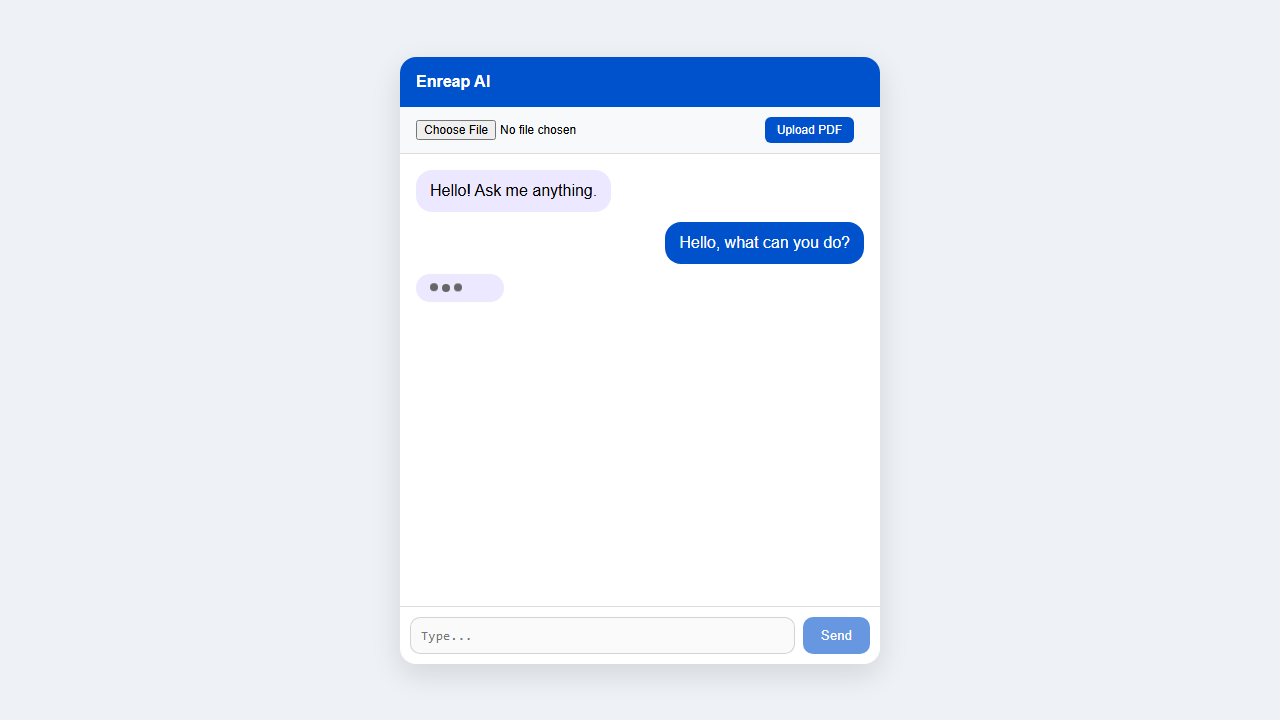
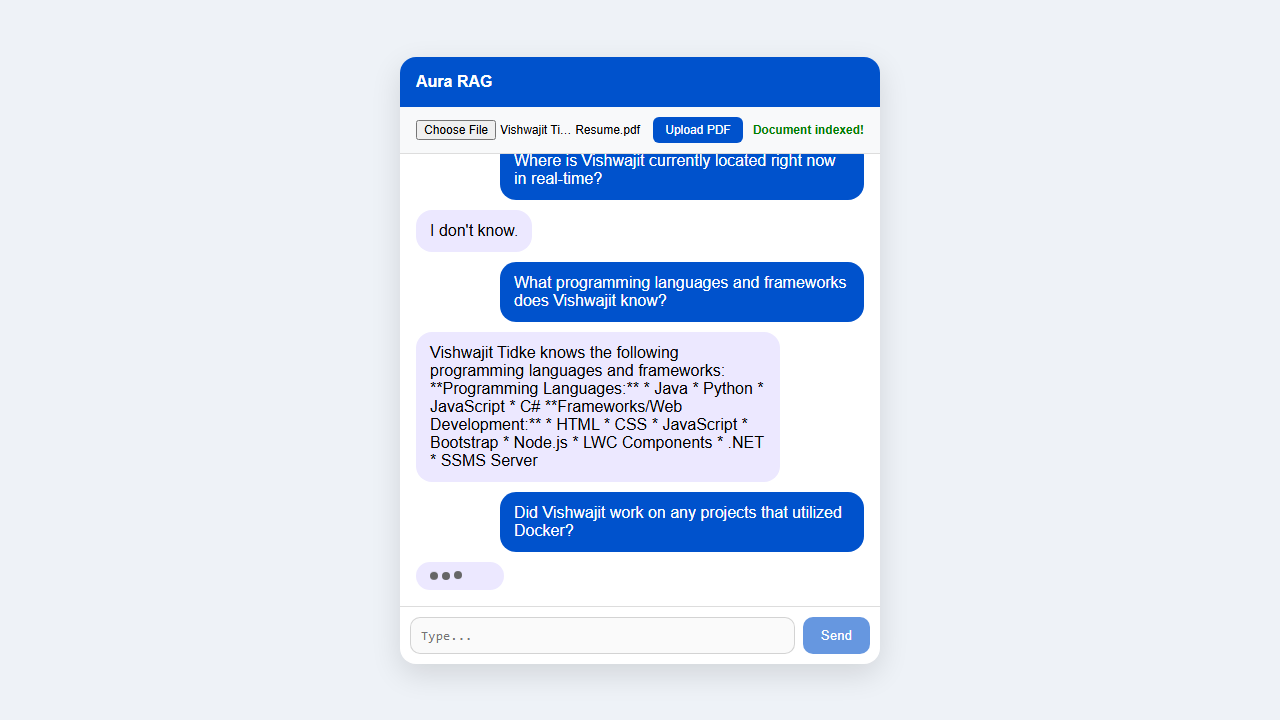
Rebrand to Aura RAG and add resume-context screenshots

diff --git a/templates/index.html b/templates/index.html
@@ -1,10 +1,10 @@
 <!DOCTYPE html>
-<html><head><meta charset="UTF-8"><title>Enreap AI</title>
+<html><head><meta charset="UTF-8"><title>Aura RAG</title>
 <link rel="stylesheet" href="/static/styles.css">
 </head>
 <body><div class="card">
 <div class="header">
-    <span>Enreap AI</span>
+    <span>Aura RAG</span>
 </div>
 <div class="upload-section">
     <input type="file" id="fileInput" accept=".pdf">

diff --git a/take_screenshot.py b/take_screenshot.py
@@ -7,12 +7,33 @@ async def main():
         page = await browser.new_page()
         await page.goto("http://127.0.0.1:8000")
         await page.wait_for_timeout(2000)
+        
+        # Take initial UI screenshot
         await page.screenshot(path="screenshot_ui.png")
         
-        # Take screenshot of typing
-        await page.fill("#q", "Hello, what can you do?")
-        await page.click("#send")
-        await page.wait_for_timeout(1000)
+        # Upload the PDF
+        pdf_path = r"C:\Users\Vishwajit\OneDrive\Documents\Vishwajit Tidke Resume.pdf"
+        await page.set_input_files("#fileInput", pdf_path)
+        await page.click("#uploadBtn")
+        
+        # Wait for upload success
+        await page.wait_for_selector("text=Document indexed!", timeout=30000)
+        
+        # Ask questions
+        questions = [
+            "What are Vishwajit's key educational qualifications?",
+            "Where is Vishwajit currently located right now in real-time?",
+            "What programming languages and frameworks does Vishwajit know?",
+            "Did Vishwajit work on any projects that utilized Docker?"
+        ]
+        
+        for q in questions:
+            await page.fill("#q", q)
+            await page.click("#send")
+            # Wait a few seconds for Gemini to respond and typing animation to finish
+            await page.wait_for_timeout(4000)
+            
+        # Take final screenshot showing all chat
         await page.screenshot(path="screenshot_chatting.png")
         
         await browser.close()

diff --git a/services/gemini.py b/services/gemini.py
@@ -7,7 +7,7 @@ api_key = os.getenv("GEMINI_API_KEY")
 client = genai.Client(api_key=api_key)
 
 def generate_rag_response(question: str, context: str):
-    prompt = f"""You are Enreap AI.
+    prompt = f"""You are Aura RAG.
 Answer ONLY using the provided context.
 If the answer isn't available, say you don't know.
 

diff --git a/app.py b/app.py
@@ -26,7 +26,7 @@ load_dotenv(dotenv_path=Path(__file__).parent / ".env")
 # FastAPI
 # ------------------------
 
-app = FastAPI(title="Enreap AI")
+app = FastAPI(title="Aura RAG")
 
 app.add_middleware(
     CORSMiddleware,

diff --git a/README.md b/README.md
@@ -1,4 +1,4 @@
-# Enreap RAG Assistant
+# Aura RAG Assistant
 
 A fast, lightweight Retrieval-Augmented Generation (RAG) chatbot built with **FastAPI**, **LangChain**, **ChromaDB**, and the **Google Gemini API**.
 
